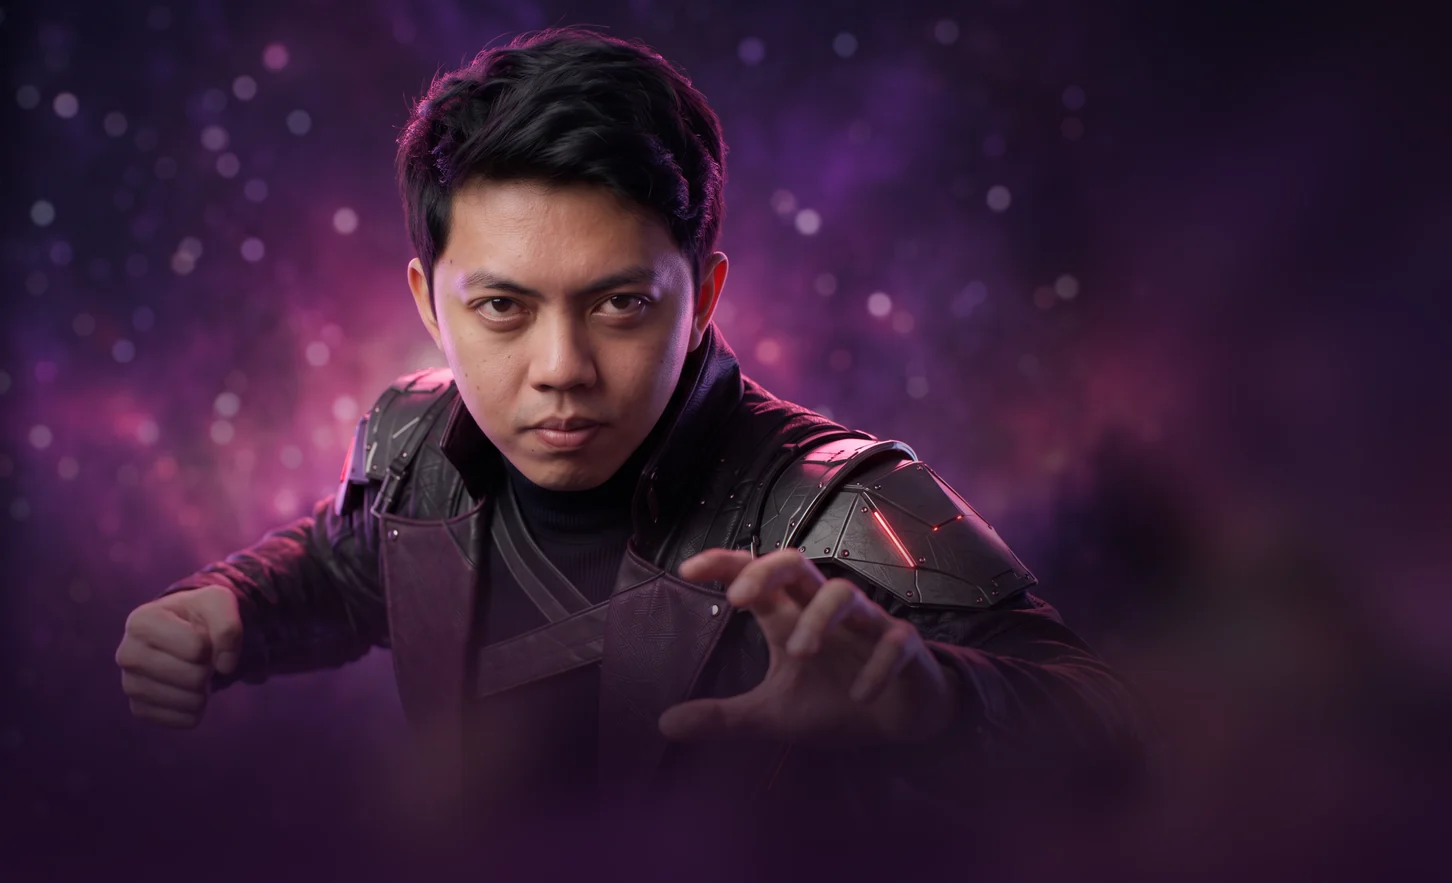
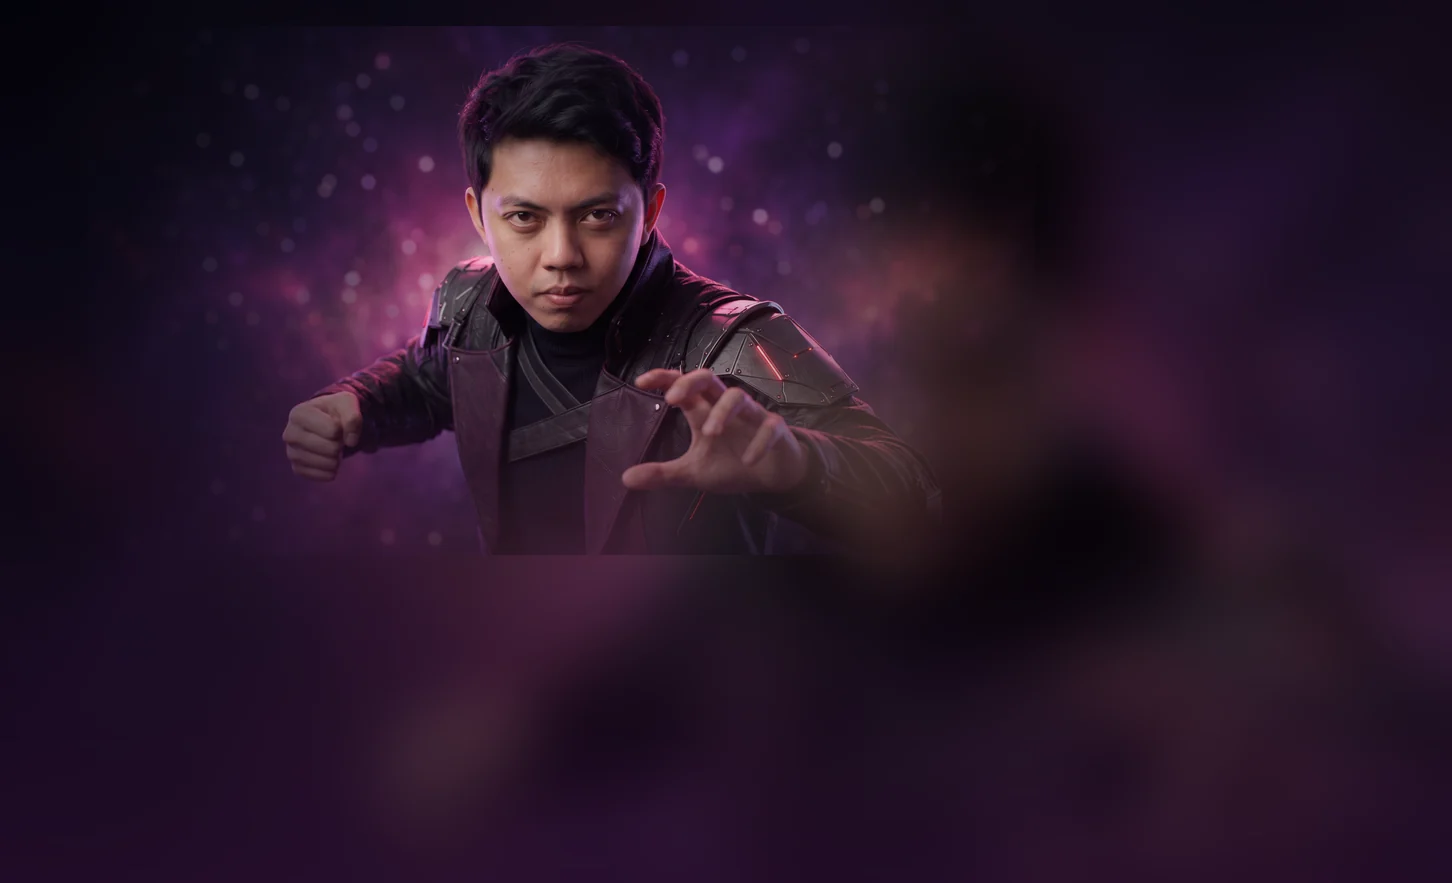
Partner Heroes big art 01-11: smaller so full pose is visible
Claude-Session: https://claude.ai/code/session_01QpfYAiXFaQHcA12hC36bw4

diff --git a/index.html b/index.html
@@ -1542,7 +1542,7 @@
     $('phQuote').textContent=main?first.quote:'Different expertises, one ecosystem.';
     document.querySelectorAll('.hc').forEach(function(x){x.classList.toggle('is-on',Number(x.dataset.hero)===slot)});
     if(window.fcuHeroPage){var hc=document.querySelector('.hc[data-hero="'+slot+'"]');window.fcuHeroPage(Number(hc&&hc.dataset.pg||0));}
-    var art=document.querySelector('.ph-art'); if(art){art.style.backgroundImage="linear-gradient(90deg,rgba(8,4,18,.6) 0,rgba(8,4,18,0) 32%,rgba(8,4,18,0) 58%,rgba(8,4,18,.55) 100%),linear-gradient(180deg,rgba(8,4,18,0) 55%,rgba(8,4,18,.7) 100%),url('heroes/big/p"+String(slot+1).padStart(2,'0')+".webp?v=4')";art.setAttribute('aria-label',name);}
+    var art=document.querySelector('.ph-art'); if(art){art.style.backgroundImage="linear-gradient(90deg,rgba(8,4,18,.6) 0,rgba(8,4,18,0) 32%,rgba(8,4,18,0) 58%,rgba(8,4,18,.55) 100%),linear-gradient(180deg,rgba(8,4,18,0) 55%,rgba(8,4,18,.7) 100%),url('heroes/big/p"+String(slot+1).padStart(2,'0')+".webp?v=5')";art.setAttribute('aria-label',name);}
     $('phSignName').textContent=name; $('phSignRole').textContent=role;
   };
   document.addEventListener('click',function(e){
